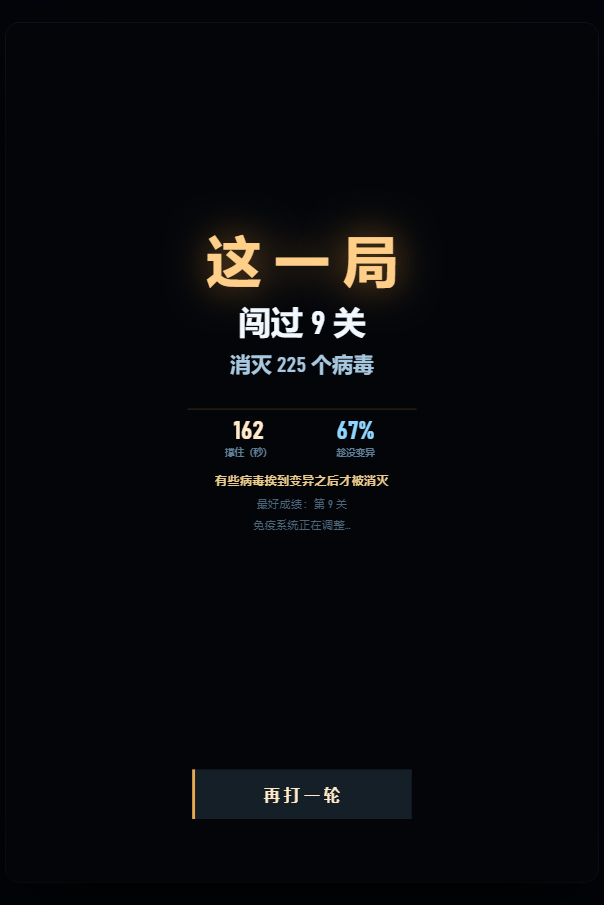
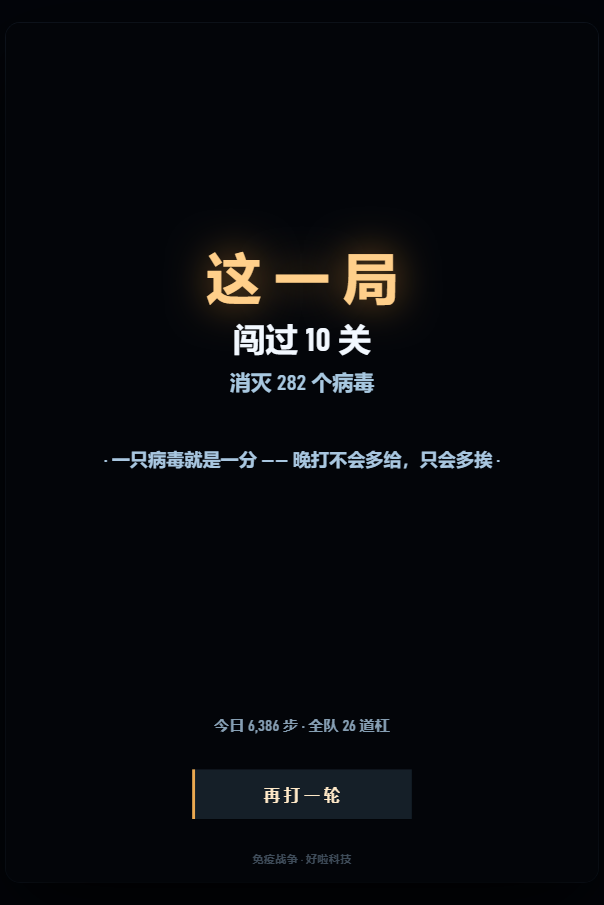
README 加商标说明；更新 demo.gif 与结算页截图

diff --git a/README.md b/README.md
@@ -88,5 +88,14 @@ shot_over.png  结算页截图
 
 ## 许可
 
-MIT。随便用、随便改，保留版权声明即可。
+代码以 **MIT** 发布。随便用、随便改、商用也行，保留版权声明和许可声明即可。
+
+## 商标
+
+MIT 只授权版权，不包含商标。
+
+项目名称「免疫战争 / Immune War」与「好啦科技 / Haola Tech」标识不在许可范围内 ——
+未经书面许可，不得用它们为衍生作品命名、背书，或暗示原作者参与。
+
+（这一条不改变 MIT 的效力，只是把「商标另算」说清楚。）
 
